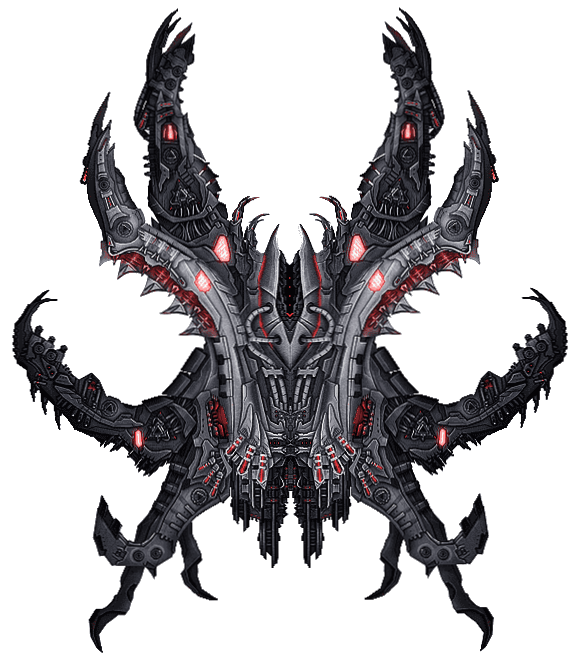
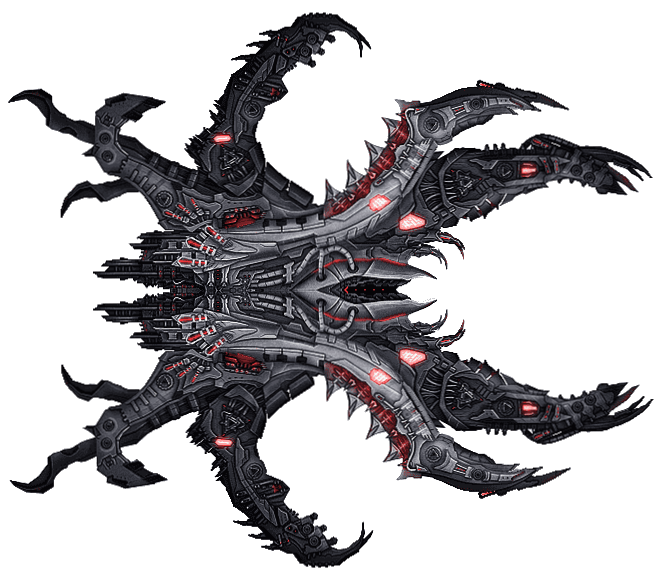
MChanges The way aliens spawn, Aliens now can shoot the player

diff --git a/client/Scenes/TestLevel.js b/client/Scenes/TestLevel.js
@@ -71,15 +71,26 @@ export default class Test extends Phaser.Scene {
       Phaser.Input.Keyboard.KeyCodes.SPACE
     );
 
-    this.mothership = new MotherShip(this, 0, 0, "mothership");
+    //Davids Changes
+    this.motherships = this.physics.add.group({
+      classType: MotherShip,
+      scene: this,
+      maxSize: 4,
+      immovable: true,
+      runChildUpdate: true,
+    });
+
+    this.motherships.get()
+    this.motherships.get(2000, 0)
+    this.motherships.get(0, 2000)
 
     //camera
 
-    //this.cameras.main.startFollow(this.ship)
-    this.cameras.main.setZoom(0.22, 0.22);
+    this.cameras.main.startFollow(this.ship)
+    //this.cameras.main.setZoom(0.22, 0.22);
   }
 
-  update(time, delta) {
+  update(time) {
     //vars
     this.satellite.setPosition(640, 380);
     this.bg.tilePositionX += this.ship.body.deltaX() * 0.5;
@@ -87,12 +98,6 @@ export default class Test extends Phaser.Scene {
     this.ship.body.velocity.x = 0;
     this.ship.body.velocity.y = 0;
     this.angle1 = Phaser.Math.Angle.Wrap(this.angle1 + 0.005);
-
-    //mothership spawner
-    if (this.mothership && time > this.spawnDelay) {
-      this.mothership.spawnAliens();
-      this.spawnDelay = time + 2000;
-    }
 
     //satellite rotation
     Phaser.Math.RotateAroundDistance(
@@ -121,15 +126,14 @@ export default class Test extends Phaser.Scene {
       this.ship.setAcceleration(2);
     }
 
-    //ship bullets
+    //ship bullets //Davids Changes
     if (this.fire.isDown && time > this.lastFired) {
-      this.bullet = this.bullets.get();
+      let bullet = this.bullets.get();
 
-      if (this.bullet) {
-        this.bullet.fire(this.ship);
+      if (bullet) {
+        bullet.fire(this.ship);
         //this.bullet.setCollideWorldBounds(true)
         this.lastFired = time + 100;
-        this.bullet.update(time, delta); // this is logic for when bullet hits something
       }
     }
   }

diff --git a/client/HelperClasses/alien.js b/client/HelperClasses/alien.js
@@ -1,4 +1,5 @@
 import Phaser from "phaser";
+import Bullet from "./bullets";
 
 export default class Alien extends Phaser.Physics.Arcade.Sprite {
   constructor(scene, x, y, spritekey) {
@@ -13,38 +14,36 @@ export default class Alien extends Phaser.Physics.Arcade.Sprite {
       }
     });
 
+    scene.physics.add.overlap(this, scene.planet, () => {
+      this.freefire = false
+      this.rotation = Phaser.Math.Angle.BetweenPoints(this, this.scene.planet)
+    })
+
     this.setScale(0.09, 0.09);
     this.setCircle(250);
     this.setCollideWorldBounds(true);
     this.setImmovable(true);
 
+    this.freefire = false
     this.health = 10;
+    this.shotdelay = 1000
+
+    scene.alienbullets = scene.physics.add.group({
+      classType: Bullet,
+      runChildUpdate: true
+    })
+
   }
-  seek() {
-    //  Pick a random target point
-    var entry = Phaser.Utils.Array.GetRandom(this.scene.points);
 
-    this.target = entry;
-
-    this.isSeeking = false;
-
-    this.scene.tweens.add({
-      targets: this.body.velocity,
-      x: 0,
-      y: 0,
-      ease: "Linear",
-      duration: 500,
-      onComplete: function (tween, targets, ship) {
-        ship.isSeeking = true;
-        ship.scene.tweens.add({
-          targets: ship,
-          speed: 150,
-          delay: 500,
-          ease: "Sine.easeOut",
-          duration: 1000,
-        });
-      },
-      onCompleteParams: [this],
-    });
+  update(time) {
+    //if freefire is true, fire at ship
+    if (this.freefire) {
+      this.rotation = Phaser.Math.Angle.BetweenPoints(this, this.scene.ship)
+      if (time > this.shotdelay) {
+        let bullet = this.scene.alienbullets.get()
+        bullet.fire(this)
+        this.shotdelay = time + (5000);
+      }
+    }
   }
 }

diff --git a/client/HelperClasses/mothership.js b/client/HelperClasses/mothership.js
@@ -2,31 +2,44 @@ import Phaser from "phaser";
 import Alien from "./alien";
 
 export default class MotherShip extends Phaser.Physics.Arcade.Sprite {
-  constructor(scene, x, y, spritekey) {
-    super(scene, x, y, spritekey);
+  constructor(scene, x, y) {
+    super(scene, x, y, 'mothership');
     this.scene = scene;
     scene.add.existing(this);
     scene.physics.add.existing(this);
-    scene.physics.add.collider(this, scene.bullet, () => {
+    scene.physics.add.collider(this, scene.bullets, () => {
       if (this.health > 0) {
-        scene.bullet.destroy();
         this.health -= 10;
       } else {
-        scene.bullet.destroy();
         this.destroy();
       }
-      console.log(this.health);
+      console.log(this.health)
     });
 
-    this.setSize(400, 550);
-
-    this.setCollideWorldBounds(true);
+    this.setDepth(2)
     this.setImmovable(true);
 
-    this.health = 100000;
+    this.health = 1000;
+    this.spawnDelay = 0
+
+    if (!scene.aliens) {
+      scene.aliens = scene.physics.add.group({
+        classType: Alien,
+        scene: scene,
+        runChildUpdate: true
+      })
+    }
   }
   spawnAliens() {
-    let b = this.getBottomCenter();
-    new Alien(this.scene, b.x + Phaser.Math.Between(-100, 100), b.y, "alien");
+    let b = this.getCenter();
+    this.scene.aliens.get((b.x) + Phaser.Math.Between(-100, 100), (b.y) + Phaser.Math.Between(-100, 100), 'alien')
+  }
+  update(time) {
+    this.rotation = Phaser.Math.Angle.BetweenPoints(this, this.scene.planet)
+    if (time > this.spawnDelay) {
+      this.spawnAliens();
+      let num = this.scene.motherships.getLength()
+      this.spawnDelay = time + (num * 1000);
+    }
   }
 }

diff --git a/client/HelperClasses/bullets.js b/client/HelperClasses/bullets.js
@@ -6,6 +6,13 @@ export default class Bullet extends Phaser.Physics.Arcade.Image {
 
     scene.add.existing(this);
     scene.physics.add.existing(this);
+    scene.physics.add.collider(this, scene.motherships, () => {
+      this.destroy();
+    })
+    scene.physics.add.collider(this, scene.aliens, () => {
+      this.destroy();
+    })
+
 
     this.setCircle(8, 15);
     this.setBlendMode(5);

diff --git a/client/components/Home.js b/client/components/Home.js
@@ -3,8 +3,6 @@ import Phaser from 'phaser'
 import Test from '../Scenes/TestLevel';
 import TitleScene from '../Scenes/TitleScene'
 
-
-
 var config = {
     type: Phaser.AUTO,
     width: 4000,
